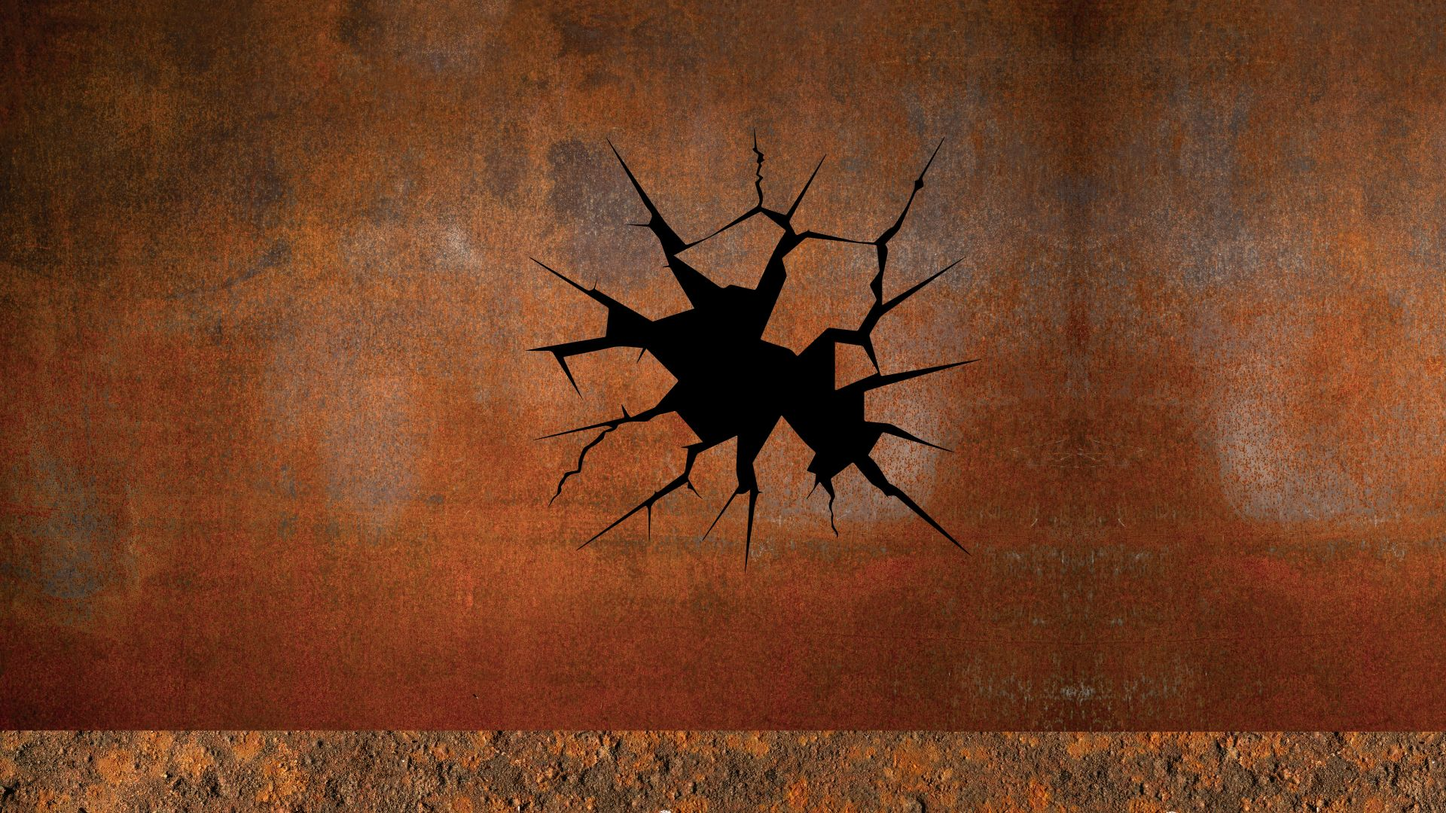
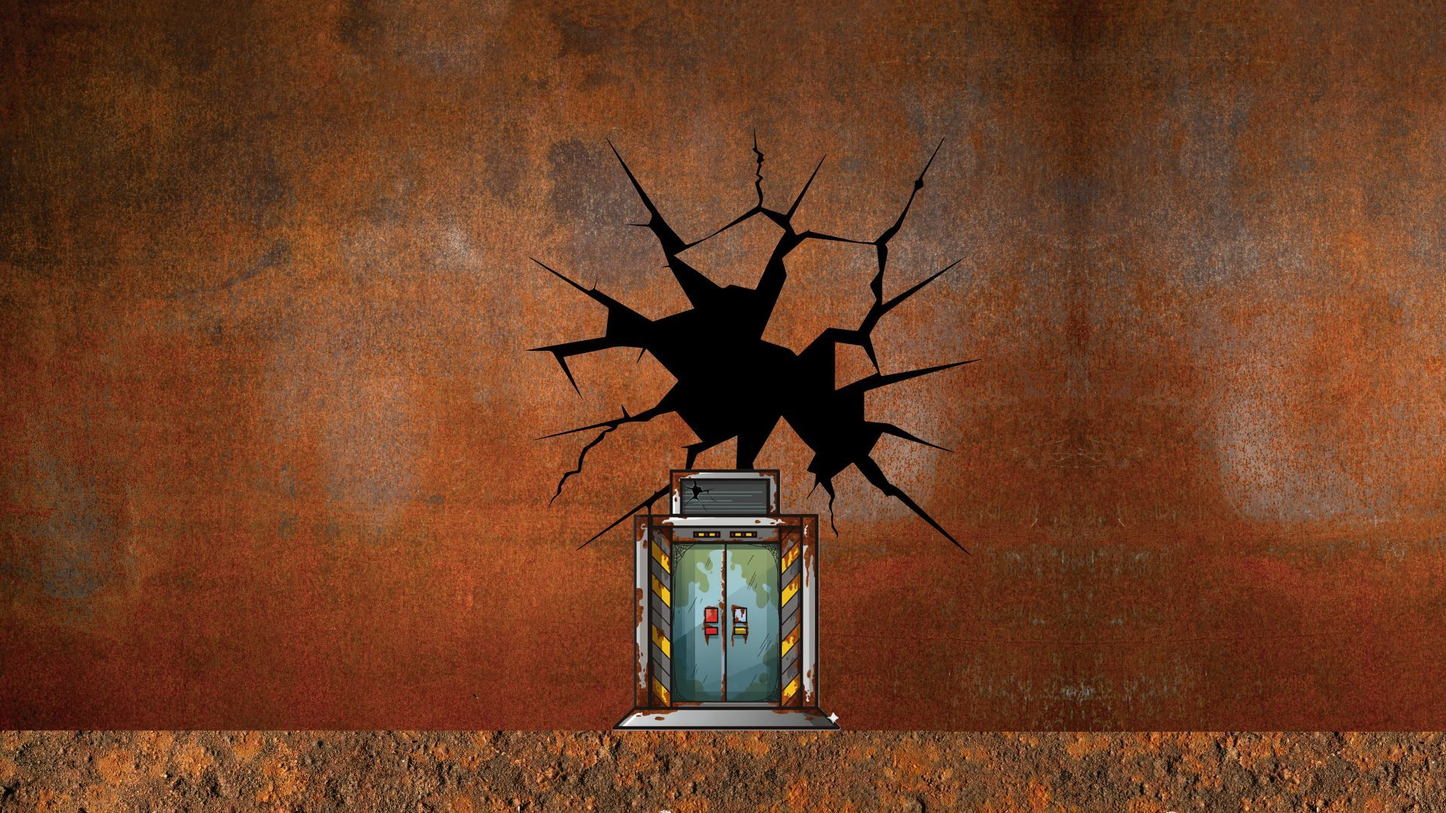
Add files via upload

Changed region(s): [[0.4062, 0.55, 0.5938, 0.9167]]

diff --git a/ModeloDesenolvimentoJogos-main/sketch.js b/ModeloDesenolvimentoJogos-main/sketch.js
@@ -8,7 +8,7 @@ var background3, background4
 var ground
 
 var astronaut, astronautImgR, astronautImgL
-var astronautAttackR,  astronautAttackL
+var astronautAttackR, astronautAttackL
 
 var enemy1, enemy2, enemy3, enemy1Img, enemy2Img, enemy3Img
 
@@ -25,7 +25,9 @@ var invTimer = 0
 var inimigosMortos = 0
 var fase = 1
 
-function preload(){
+var portal
+
+function preload() {
   /*trex_running = loadAnimation("trex1.png","trex3.png","trex4.png");
   trex_collided = loadAnimation("trex_collided.png");
   
@@ -40,30 +42,35 @@ function preload(){
   obstacle5 = loadImage("obstacle5.png");
   obstacle6 = loadImage("obstacle6.png");*/
 
-
+  //Fase 1
   background1 = loadImage("Imagens/1.jpg")
   background2 = loadImage("Imagens/3.jpg")
-  
+
+  //Fase Boss(2)
+  background3 = loadImage("Imagens/2.jpg")
+  background4 = loadImage("Imagens/4.jpg")
+
   astronautImgL = loadImage("Imagens/AstronautaF.png")
   astronautImgR = loadImage("Imagens/AstronautaF2.png")
 
-  astronautAttackL = loadAnimation("Imagens/11.png","Imagens/12.png","Imagens/23.png","Imagens/34.png")
-  astronautAttackR = loadAnimation("Imagens/11.png","Imagens/12.png","Imagens/22.png","Imagens/33.png")
+  astronautAttackL = loadAnimation("Imagens/11.png", "Imagens/12.png", "Imagens/23.png", "Imagens/34.png")
+  astronautAttackR = loadAnimation("Imagens/11.png", "Imagens/12.png", "Imagens/22.png", "Imagens/33.png")
 
 
-  enemy1Img = loadAnimation("Imagens/Olho1.png","Imagens/Olho2.png")
-  enemy2Img = loadAnimation("Imagens/Terrestre1.png","Imagens/Terrestre2.png","Imagens/Terrestre3.png")
-  enemy3Img = loadAnimation("Imagens/Voador1.png","Imagens/Voador2.png")
+  enemy1Img = loadAnimation("Imagens/Olho1.png", "Imagens/Olho2.png")
+  enemy2Img = loadAnimation("Imagens/Terrestre1.png", "Imagens/Terrestre2.png", "Imagens/Terrestre3.png")
+  enemy3Img = loadAnimation("Imagens/Voador1.png", "Imagens/Voador2.png")
 
   platformImg = loadImage("Imagens/Plataforma1.png")
 
-  
+
+
 }
 
 function setup() {
- //               1000     ,     600 
+  //               1000     ,     600 
   createCanvas(windowWidth, windowHeight);
-  
+
   /*trex = createSprite(50,180,20,50);
   trex.addAnimation("running", trex_running);
   trex.addAnimation("collided" , trex_collided)
@@ -72,13 +79,16 @@ function setup() {
   ground = createSprite(200,180,400,20);
   ground.addImage("ground",groundImage);
   ground.x = ground.width /2;*/
-  
+
   edges = createEdgeSprites()
-  ground = createSprite(width/2,height -50 *2,width,20);
+  ground = createSprite(width / 2, height - 50 * 2, width, 20);
   ground.visible = true;
 
   platform1 = createSprite(width / 2 - 400, height - 250, 250, 25);
   platform2 = createSprite(width / 2 + 300, height - 350, 250, 25);
+
+  portal = createSprite(width / 2, height / 2 + 300, 50, 200)
+  portal.visible = false
 
   platform1.addImage("plataforma", platformImg);
   platform2.addImage("plataforma2", platformImg);
@@ -86,105 +96,144 @@ function setup() {
   platform1.scale = 0.35
   platform2.scale = 0.35
 
-  astronaut = new Astronauta(50,height - 150)
+  astronaut = new Astronauta(50, height - 150)
 
-  astronaut.sprite.setCollider("rectangle",50,0,250,725)
+  astronaut.sprite.setCollider("rectangle", 50, 0, 250, 725)
   astronaut.sprite.debug = true
 
-  enemy1 = new Inimigos(width - 50,10,enemy1Img,0.2)
+  enemy1 = new Inimigos(width - 50, 10, enemy1Img, 0.2)
 
-  enemy1.sprite.setCollider("circle",0,30,150)
+  enemy1.sprite.setCollider("circle", 0, 30, 150)
   enemy1.sprite.debug = true
 
 
-  enemy2 = new Inimigos(width - 50,height - 200 ,enemy2Img,0.25)
+  enemy2 = new Inimigos(width - 50, height - 200, enemy2Img, 0.25)
 
-  enemy2.sprite.setCollider("rectangle",-100,0,450,250)
+  enemy2.sprite.setCollider("rectangle", -100, 0, 450, 250)
   enemy2.sprite.debug = true
 
 
-  enemy3 = new Inimigos(50,height - 149,enemy3Img,0.3)
+  enemy3 = new Inimigos(50, height - 149, enemy3Img, 0.3)
 
-  enemy3.sprite.setCollider("circle",0,0,200)
+  enemy3.sprite.setCollider("circle", 0, 0, 200)
   enemy3.sprite.debug = true
 
-  platform1.setCollider("rectangle",0,0,950,400)
+  platform1.setCollider("rectangle", 0, 0, 950, 400)
   platform1.debug = true
 
-  platform2.setCollider("rectangle",0,0,950,400)
+  platform2.setCollider("rectangle", 0, 0, 950, 400)
   platform2.debug = true
+
+  portal.setCollider("rectangle", 0, 0, 50, 200)
+  portal.debug = true
+
 
 
 
   //enemy1.MovimentoAereo1()
   enemy3.MovimentoAereo2()
-  
+
   //crie Grupos de Obstáculos e Nuvens
- /*obstaclesGroup = createGroup();
-  cloudsGroup = createGroup();
-  
-  console.log("Hello" + 5);
-  
-  score = 0;*/
+  /*obstaclesGroup = createGroup();
+   cloudsGroup = createGroup();
+   
+   console.log("Hello" + 5);
+   
+   score = 0;*/
 }
 
 function draw() {
+  
+
+
+  if (fase === 1) {
+
   background(background1);
+
+    enemy2.SeguirX(astronaut, 10)
+
+    enemy1.SeguirX2(astronaut, 40)
+    enemy1.SeguirY(astronaut)
+
+    enemy3.sprite.bounceOff(ground)
+    enemy3.sprite.bounceOff(edges)
+
+    enemy1.sprite.collide(edges)
+    enemy1.sprite.collide(ground)
+
+    if (astronaut.attacking) {
+      if (astronaut.sprite.overlap(enemy1.sprite)) {
+        enemy1.sprite.remove()
+        inimigosMortos++
+      }
+      if (astronaut.sprite.overlap(enemy2.sprite)) {
+        enemy2.sprite.remove()
+        inimigosMortos++
+      }
+      if (astronaut.sprite.overlap(enemy3.sprite)) {
+        enemy3.sprite.remove()
+        inimigosMortos++
+      }
+    }
+
+    if (!invencivel) {
+      if (astronaut.sprite.overlap(enemy1.sprite)) perderVida()
+      if (astronaut.sprite.overlap(enemy2.sprite)) perderVida()
+      if (astronaut.sprite.overlap(enemy3.sprite)) perderVida()
+    }
+
+    if (invencivel) {
+      invTimer--
+      if (frameCount % 5 === 0) {
+        astronaut.sprite.visible = !astronaut.sprite.visible
+      }
+
+      if (invTimer <= 0) {
+        invencivel = false
+        astronaut.sprite.visible = true
+        astronaut.sprite.tint = color(255, 255, 255)
+      }
+    }
+
+    if (vida <= 0) {
+      astronaut.sprite.remove()
+      fill("red");
+      textSize(50);
+      text("GAME OVER =(", width / 2 - 100, height / 2);
+    }
+
+    if (inimigosMortos >= 3) {
+      background(background2)
+      if (astronaut.sprite.isTouching(portal)) {
+        background(background1)
+        astronaut.sprite.velocityX = 0
+        astronaut.sprite.velocityY = 0
+        astronaut.sprite.visible = false
+        setTimeout(() => {
+          fase = 2
+
+        },1000)
+        
+      }
+    }
+  } else if (fase === 2) {
+    background(background3)
+   var intervalo = setInterval(() => {
+      background(background4)
+      vida = vidaMax
+    astronaut.sprite.visible = true
+    },1000)
+    clearInterval(intervalo)
+  }
 
 
   astronaut.Movimento()
 
   //enemy2.MovimentoTerrestre1(astronaut)
-  enemy2.SeguirX(astronaut,10)
 
-  enemy1.SeguirX2(astronaut,40)
-  enemy1.SeguirY(astronaut)
 
-  enemy3.sprite.bounceOff(ground)
-  enemy3.sprite.bounceOff(edges)
 
-  enemy1.sprite.collide(edges)
-  enemy1.sprite.collide(ground)
 
- if(astronaut.attacking){
-  if(astronaut.sprite.overlap(enemy1.sprite)){
-    enemy1.sprite.remove()
-    inimigosMortos ++
-  }
-  if(astronaut.sprite.overlap(enemy2.sprite)){
-    enemy2.sprite.remove()
-    inimigosMortos ++
-  }
-  if(astronaut.sprite.overlap(enemy3.sprite)){
-    enemy3.sprite.remove()
-    inimigosMortos ++
-  }
- }
-  if(!invencivel){
-    if(astronaut.sprite.overlap(enemy1.sprite)) perderVida()
-    if(astronaut.sprite.overlap(enemy2.sprite)) perderVida()
-    if(astronaut.sprite.overlap(enemy3.sprite)) perderVida()
-  }
-
-  if(invencivel){
-    invTimer --
-    if(frameCount % 5 === 0){
-      astronaut.sprite.visible = !astronaut.sprite.visible
-    }
-
-    if(invTimer <= 0){
-      invencivel = false
-      astronaut.sprite.visible = true
-      astronaut.sprite.tint = color(255, 255, 255)
-    }
-  }
-
-  if(vida <= 0){
-    astronaut.sprite.remove()
-    fill("red");
-    textSize(50);
-    text("GAME OVER =(", width/2 - 100, height/2);
-  }
 
 
   astronaut.sprite.collide(ground)
@@ -207,22 +256,16 @@ function draw() {
   }
   pop()
 
-  if(fase === 1){
-    if(inimigosMortos >= 3){
-      background(background2)
-    }
-  }
-
   drawSprites();
 }
 
-function perderVida(){
-  vida -- //Diminuir Vida
-  invencivel = true 
+function perderVida() {
+  vida-- //Diminuir Vida
+  invencivel = true
   invTimer = tempoInvensivel
 
   //efeito visual
-  astronaut.sprite.tint = color(255,100,100) 
+  astronaut.sprite.tint = color(255, 100, 100)
 }
 
 
